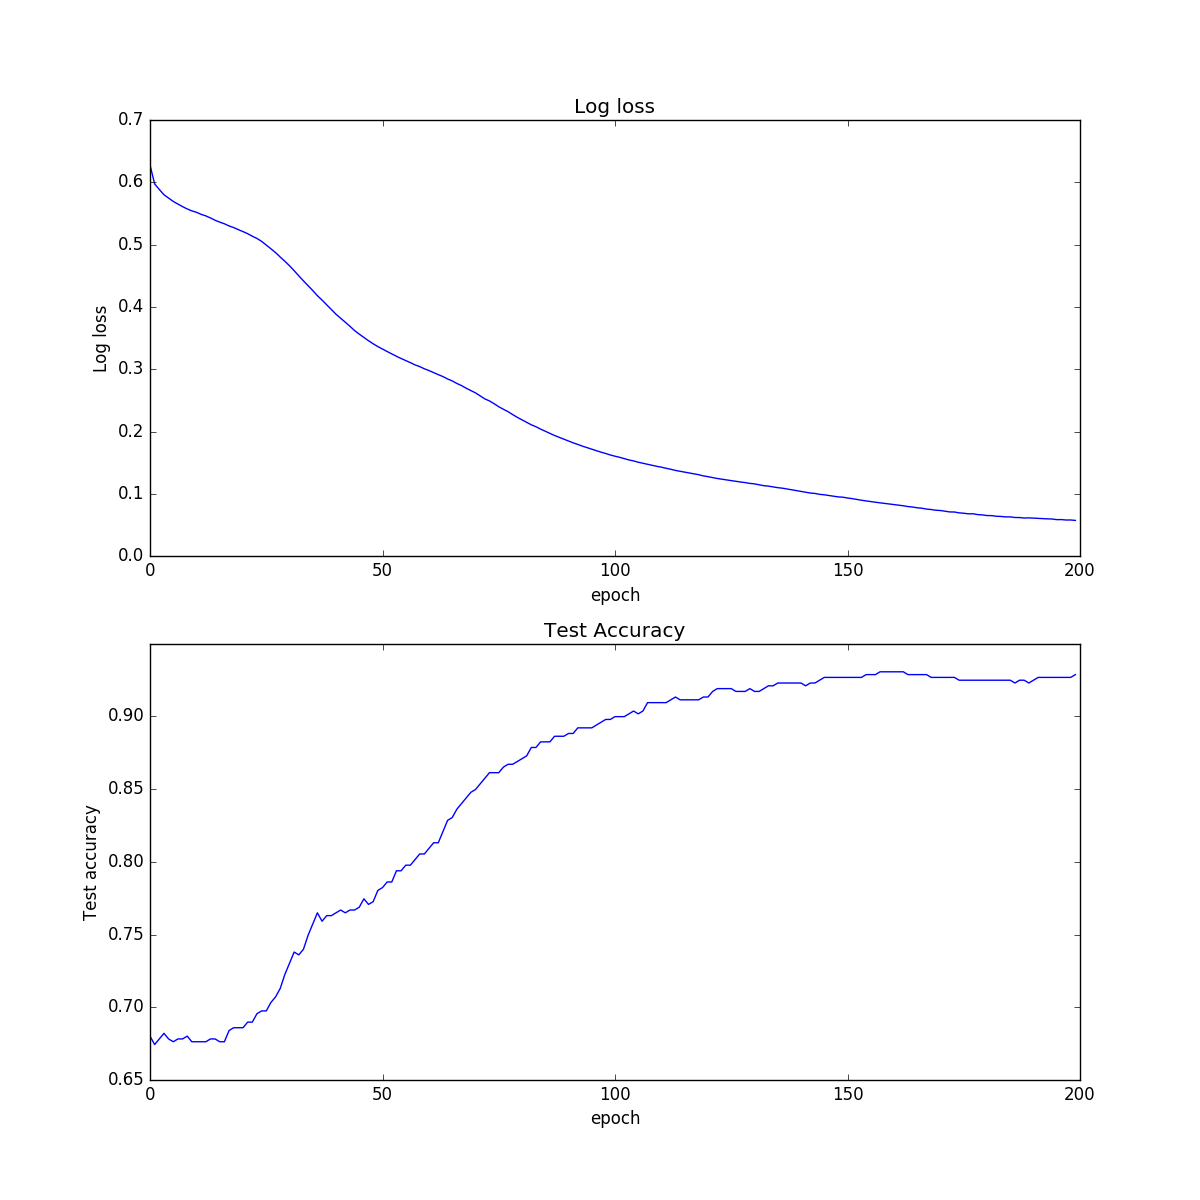
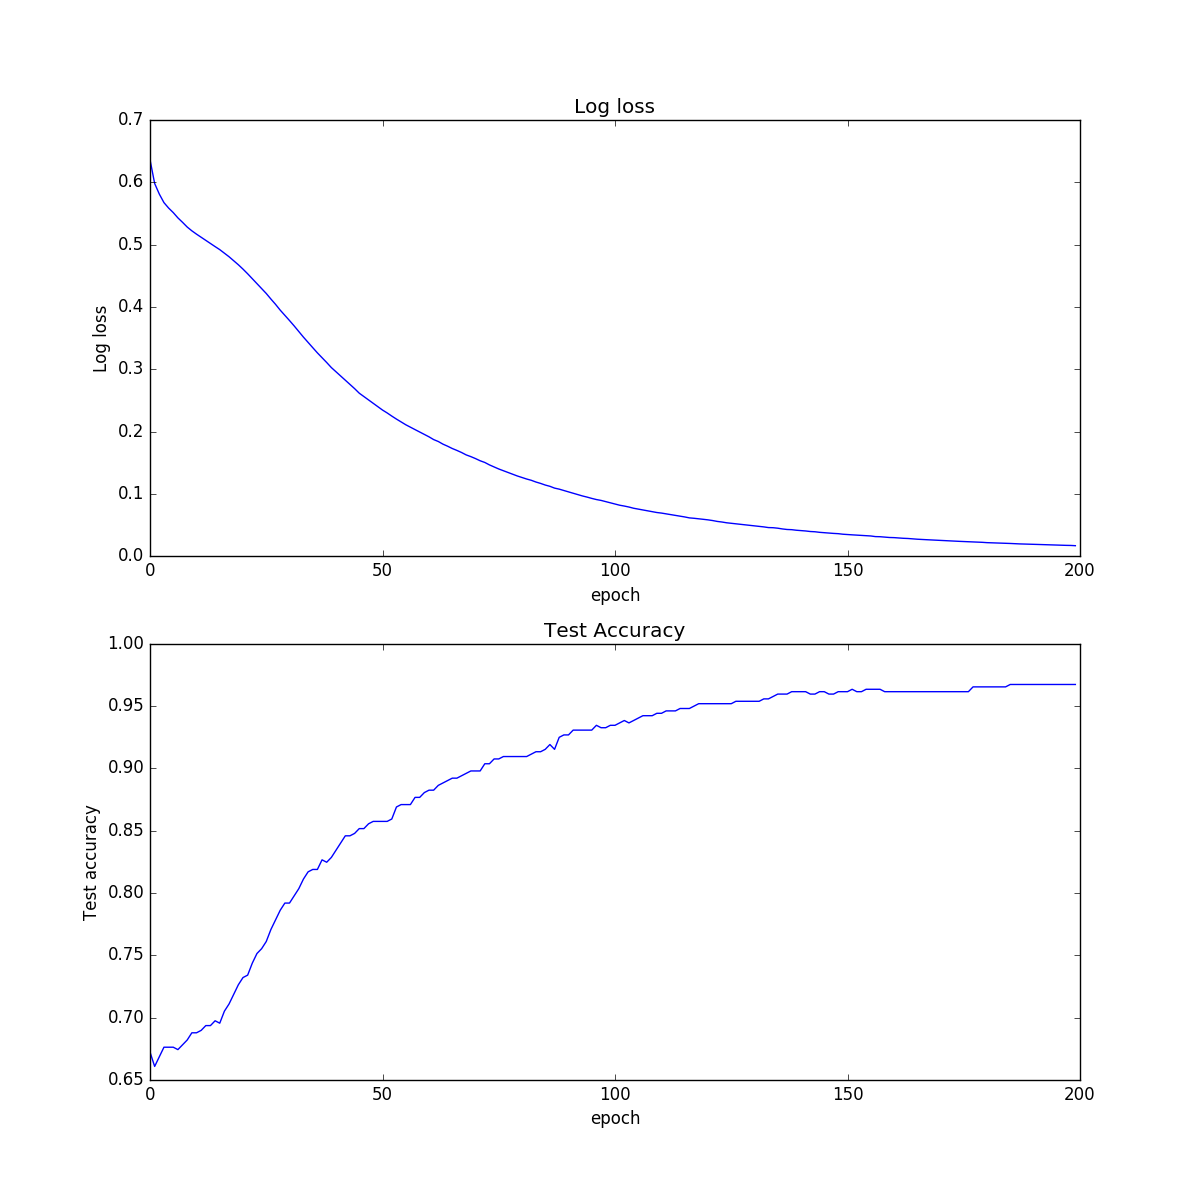
Fix small issues.

diff --git a/mlp_with_shortcut.py b/mlp_with_shortcut.py
@@ -61,7 +61,7 @@ class Network:
         self.z_1 = Tanh.activation(self.a_1)
 
         self.a_2 = self.w2.dot(self.z_1) + self.b2
-        self.z_2 = Tanh.activation(self.a_2)
+        self.z_2 = Relu.activation(self.a_2)
         self.z_2_with_skip_connection = self.z_2 + self.w_s.dot(x)
 
         self.a_3 = self.w_out.dot(self.z_2_with_skip_connection) + self.b_out
